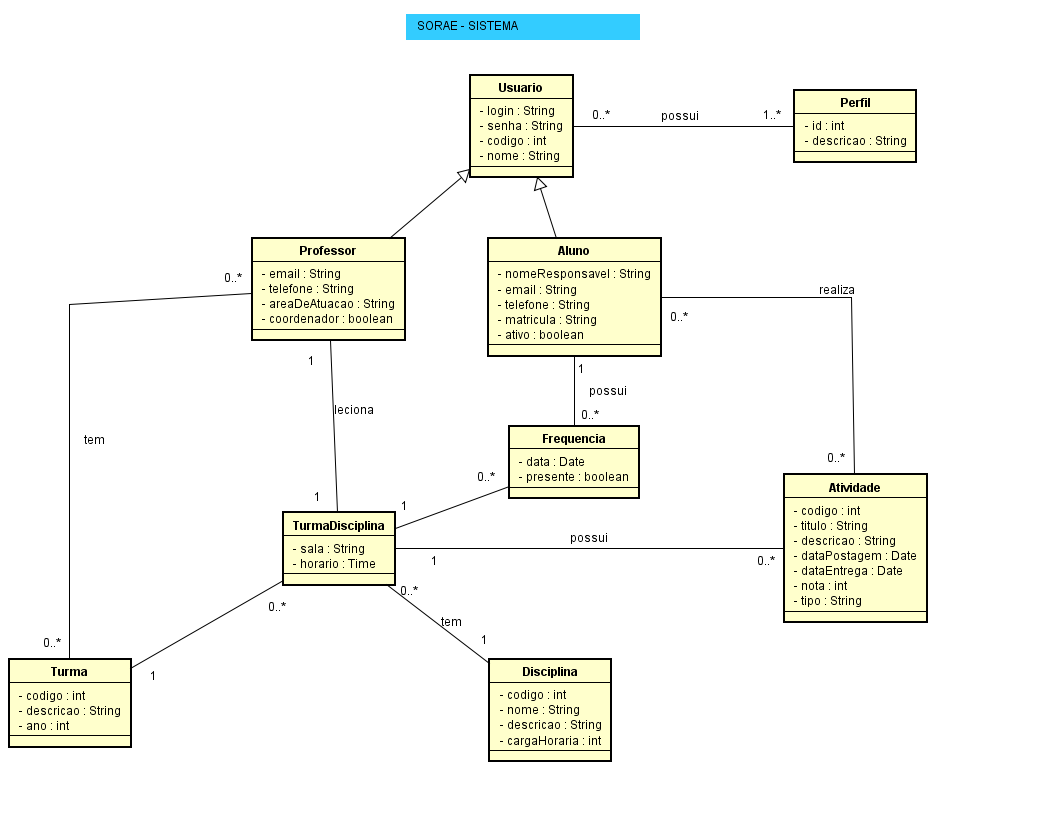
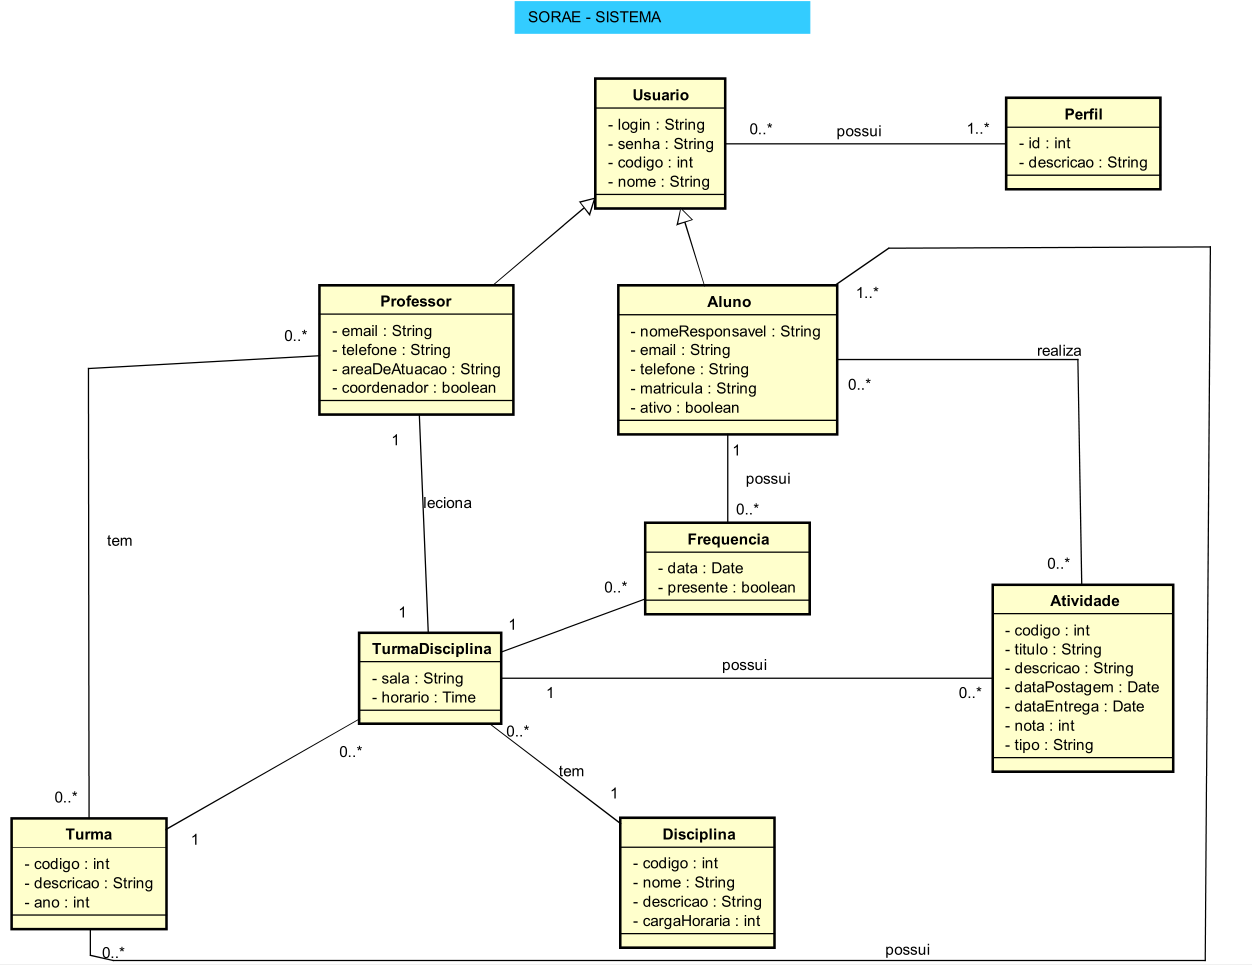
Listagem de disciplinas do aluno

diff --git a/front-sorae/app/routers/usuario.js b/front-sorae/app/routers/usuario.js
@@ -34,7 +34,48 @@ module.exports = async function (app) {
         next();
     });
     
+    app.get(process.env.SERVER_PREFIX + '/alunos/:idAluno/disciplinas', function(req, res) {
+        if (!req.session.token) {
+            res.redirect( process.env.SERVER_PREFIX + '/app/login');
+        } else if (req.session.usuario.nivel != 'ADMIN') {
+            req.flash('danger', 'Acesso restrito! Somente usuários de nível ADMINISTRADOR podem acessar esta página');
+            res.redirect( process.env.SERVER_PREFIX + '/');
+        } else {
 
+            teste = request({
+                url: process.env.API_HOST + req.params.idAluno ,
+                method: "GET",
+                json: true,
+                headers: {
+                    "content-type": "application/json",
+                    "Authorization": req.session.token
+                },
+            }, function (error, response, body) {
+               
+                if (validaRequisicao(response.statusCode, req, res)) {
+                    console.log(body)
+                    lista = [];
+                    for (var i = 0; i < Object.keys(body).length; i++) {
+                        const usuario = {
+                            // nome: body.data[i].id,
+                       
+                        };
+                        lista.push(usuario);
+                    }
+                    res.format({
+                        html: function () {
+                            res.render(rota + '/List', { itens: lista, page: rota, informacoes: req.session.usuario });
+
+                        }
+                    });
+                    return lista;
+                }
+
+
+            });
+
+        }
+    })
 
     // Rota para exibição da View Listar
     app.get( process.env.SERVER_PREFIX + '/app/' + rota + '/list', function (req, res) {

diff --git a/front-sorae/app/routers/login.js b/front-sorae/app/routers/login.js
@@ -45,6 +45,10 @@ module.exports = async function(app) {
                 "username": req.body.email,
             },
         }, function(error, response, body) {
+           if (response == null) {
+                res.redirect( process.env.SERVER_PREFIX + '/');
+                return false;
+           }
             if (response.statusCode != 201) {
                 req.flash("danger", body.accessToken);
                 res.redirect( process.env.SERVER_PREFIX + '/');

diff --git a/front-sorae/app.js b/front-sorae/app.js
@@ -30,7 +30,7 @@ app.get(process.env.SERVER_PREFIX, (req, res) => {
     } else {
         res.format({
             html: function () {
-                res.render('template/index',{informacoes: req.session.usuario});
+                res.render('template/index',{informacoes: req.session.usuario, teste: 'amarelo'});
             }
         });
     }

diff --git a/backend-sorae/src/main/java/pkg/SoraeApplication.java b/backend-sorae/src/main/java/pkg/SoraeApplication.java
@@ -1,5 +1,6 @@
 package pkg;
 
+import java.time.LocalDateTime;
 import java.util.ArrayList;
 import java.util.Arrays;
 import java.util.List;
@@ -13,9 +14,15 @@ import org.springframework.security.crypto.password.PasswordEncoder;
 import org.springframework.web.client.RestTemplate;
 
 import pkg.entities.Aluno;
+import pkg.entities.Disciplina;
 import pkg.entities.Professor;
+import pkg.entities.Turma;
+import pkg.entities.TurmaDisciplina;
 import pkg.entities.Usuario;
 import pkg.enums.NivelEnum;
+import pkg.repositories.DisciplinaRepository;
+import pkg.repositories.TurmaDisciplinaRepository;
+import pkg.repositories.TurmaRepository;
 import pkg.repositories.UsuarioRepository;
 
 @SpringBootApplication
@@ -31,13 +38,15 @@ public class SoraeApplication {
 	}
 
 	@Bean
-	CommandLineRunner init(UsuarioRepository usuarioRepository, PasswordEncoder passwordEncoder) {
+	CommandLineRunner init(UsuarioRepository usuarioRepository, PasswordEncoder passwordEncoder, DisciplinaRepository discRepository, 
+			TurmaRepository turmaRepository,  TurmaDisciplinaRepository turmaDisciplinaRepository) {
 		return args -> {
-			iniciarUsuario(usuarioRepository, passwordEncoder);
+			iniciarUsuario(usuarioRepository, passwordEncoder, discRepository, turmaRepository, turmaDisciplinaRepository);
 		};
 	}
 
-	public void iniciarUsuario(UsuarioRepository repository, PasswordEncoder passwordEncoder) {
+	public void iniciarUsuario(UsuarioRepository repository, PasswordEncoder passwordEncoder, DisciplinaRepository discRepository, 
+			TurmaRepository turmaRepository, TurmaDisciplinaRepository turmaDisciplinaRepository) {
 		List<Usuario> usuarios = repository.findAll();
 
 		if (usuarios.isEmpty()) {
@@ -51,6 +60,7 @@ public class SoraeApplication {
 			usuario.setEmail("email@email.com");
 			usuario.setNiveis(niveis);
 			usuario.setTipo("PE");
+	
 			
 			List<NivelEnum> niveisAluno = new ArrayList<>();
 			niveisAluno.add(NivelEnum.ALUNO);
@@ -67,10 +77,7 @@ public class SoraeApplication {
 			aluno.setNomeResponsavel("Raíssa da Costa");
 			aluno.setTelefone("9899882222");
 			aluno.setSerie("9 ANO");
-			
-			
-			
-			
+
 			
 			List<NivelEnum> niveisProfessor = new ArrayList<>();
 			niveisProfessor.add(NivelEnum.PROFESSOR);
@@ -85,7 +92,58 @@ public class SoraeApplication {
 			professor.setAreaDeAtuacao("EXATAS");
 			professor.setCoordenador(false);
 
-			repository.saveAll(Arrays.asList(usuario, professor, aluno));
+
+			repository.saveAll(Arrays.asList(usuario,aluno, professor ));
+			
+			
+			Disciplina d1 = new Disciplina();
+			d1.setCargaHoraria(10);
+			d1.setDescricao("A melhor disciplina de todas");
+			d1.setNome("Matemática");
+			
+			Disciplina d2 = new Disciplina();
+			d2.setCargaHoraria(8);
+			d2.setDescricao("A 2 melhor disciplina de todas");
+			d2.setNome("Portugês");
+			
+			discRepository.saveAll(Arrays.asList(d1, d2));
+			
+			Turma t1 = new Turma();
+			
+			t1.setAno(2020);
+			t1.setDescricao("9-ANO-C");
+			t1.setAlunos(Arrays.asList(aluno));
+			t1.setProfessores(Arrays.asList(professor));
+			
+			
+			turmaRepository.save(t1);
+			
+			
+			TurmaDisciplina td = new TurmaDisciplina();
+			td.setDisciplina(d1);
+			td.setHorario(LocalDateTime.of(2020, 01, 01, 10, 10));
+			td.setTurma(t1);
+			td.setSala("202-A");
+			
+			TurmaDisciplina td2 = new TurmaDisciplina();
+			td2.setDisciplina(d2);
+			td2.setHorario(LocalDateTime.of(2020, 01, 01, 9, 10));
+			td2.setTurma(t1);
+			td2.setSala("203-A");
+			
+			
+			turmaDisciplinaRepository.saveAll(Arrays.asList(td, td2));
+			
+			
+			
+			
+			
+			
+			
+			
+			
+			
+			
 		}
 	}
 }

diff --git a/backend-sorae/src/main/java/pkg/controllers/AlunoController.java b/backend-sorae/src/main/java/pkg/controllers/AlunoController.java
@@ -1,7 +1,10 @@
 package pkg.controllers;
 
+import java.util.List;
+
 import org.springframework.beans.factory.annotation.Autowired;
 import org.springframework.http.HttpStatus;
+import org.springframework.web.bind.annotation.CrossOrigin;
 import org.springframework.web.bind.annotation.DeleteMapping;
 import org.springframework.web.bind.annotation.GetMapping;
 import org.springframework.web.bind.annotation.PathVariable;
@@ -14,14 +17,26 @@ import org.springframework.web.bind.annotation.RestController;
 import org.springframework.web.server.ResponseStatusException;
 
 import pkg.entities.Aluno;
+import pkg.entities.projections.TurmaResumoDTO;
 import pkg.services.impl.AlunoService;
+import pkg.services.impl.TurmaService;
 
 @RestController
 @RequestMapping("/alunos")
+@CrossOrigin(origins = "*")
 public class AlunoController {
 
     @Autowired
     private AlunoService alunoService;
+    
+    @Autowired
+    private TurmaService turmaService;
+    
+    
+    @GetMapping("/{idAluno}/disciplinas")
+    public List<TurmaResumoDTO> buscarDisciplinasDoAluno(@PathVariable("idAluno") Long idAluno){
+    	return turmaService.buscarDisciplinasDoAluno(idAluno);
+    }
 
 
     @PostMapping("/cadastro") @ResponseStatus(HttpStatus.CREATED)

diff --git a/backend-sorae/src/main/java/pkg/repositories/TurmaRepository.java b/backend-sorae/src/main/java/pkg/repositories/TurmaRepository.java
@@ -1,0 +1,20 @@
+package pkg.repositories;
+
+import java.util.List;
+
+import org.springframework.data.jpa.repository.JpaRepository;
+import org.springframework.data.jpa.repository.Query;
+
+import pkg.entities.Turma;
+import pkg.entities.projections.TurmaResumoDTO;
+
+
+public interface TurmaRepository extends JpaRepository<Turma, Long> {
+	
+	@Query(value = "select disciplina.codigo, disciplina.nome, turma_disciplina.sala,turma_disciplina.horario  "
+			+ " from turma_disciplina "
+			+ " inner join disciplina on disciplina.codigo = turma_disciplina.fk_disciplina "
+			+ " inner join turma on turma.codigo = turma_disciplina.fk_turma "
+			+ " where  turma.codigo in (select turma_id from turma_aluno where aluno_id = ?1)", nativeQuery = true)
+	List<TurmaResumoDTO> buscarDisciplinasDoAluno(Long idAluno);
+}

diff --git a/backend-sorae/src/main/java/pkg/entities/Turma.java b/backend-sorae/src/main/java/pkg/entities/Turma.java
@@ -10,6 +10,8 @@ import javax.persistence.JoinColumn;
 import javax.persistence.JoinTable;
 import javax.persistence.ManyToMany;
 
+import com.fasterxml.jackson.annotation.JsonBackReference;
+
 import lombok.Data;
 
 @Entity
@@ -24,10 +26,16 @@ public class Turma {
 	
 	private Integer ano;
 	
-	@ManyToMany
+	@ManyToMany @JsonBackReference
 	@JoinTable(name = "turma_professor", 
 	   joinColumns = @JoinColumn(name = "turma_id"), 
 	   inverseJoinColumns = @JoinColumn(name = "professor_id"))
 	private List<Professor> professores;
+	
+	 @ManyToMany
+	 @JoinTable(name = "turma_aluno", 
+	   joinColumns = @JoinColumn(name = "turma_id"), 
+	   inverseJoinColumns = @JoinColumn(name = "aluno_id"))
+	 private List<Aluno> alunos;
 	
 }

diff --git a/backend-sorae/src/main/java/pkg/controllers/AtividadeController.java b/backend-sorae/src/main/java/pkg/controllers/AtividadeController.java
@@ -4,6 +4,7 @@ import org.springframework.beans.BeanUtils;
 import org.springframework.beans.factory.annotation.Autowired;
 import org.springframework.http.HttpStatus;
 import org.springframework.http.ResponseEntity;
+import org.springframework.web.bind.annotation.CrossOrigin;
 import org.springframework.web.bind.annotation.DeleteMapping;
 import org.springframework.web.bind.annotation.GetMapping;
 import org.springframework.web.bind.annotation.PathVariable;
@@ -20,6 +21,7 @@ import pkg.services.impl.AtividadeService;
 
 @RestController
 @RequestMapping(value = "/atividades")
+@CrossOrigin(origins = "*")
 public class AtividadeController {
 	
 	@Autowired

diff --git a/backend-sorae/src/main/java/pkg/entities/Professor.java b/backend-sorae/src/main/java/pkg/entities/Professor.java
@@ -4,7 +4,10 @@ import java.util.List;
 
 import javax.persistence.DiscriminatorValue;
 import javax.persistence.Entity;
+import javax.persistence.FetchType;
 import javax.persistence.ManyToMany;
+
+import com.fasterxml.jackson.annotation.JsonManagedReference;
 
 @Entity  @DiscriminatorValue("PR")
 public class Professor extends Usuario{
@@ -15,7 +18,8 @@ public class Professor extends Usuario{
 	private Boolean coordenador;
 	private String ocupacao;
 	
-	@ManyToMany(mappedBy = "professores")
+	@JsonManagedReference
+	@ManyToMany(mappedBy = "professores", fetch = FetchType.LAZY)
 	private List<Turma> turmas;
 
 	public String getTelefone() {

diff --git a/backend-sorae/src/main/java/pkg/controllers/ProfessorController.java b/backend-sorae/src/main/java/pkg/controllers/ProfessorController.java
@@ -2,6 +2,7 @@ package pkg.controllers;
 
 import org.springframework.beans.factory.annotation.Autowired;
 import org.springframework.http.HttpStatus;
+import org.springframework.web.bind.annotation.CrossOrigin;
 import org.springframework.web.bind.annotation.DeleteMapping;
 import org.springframework.web.bind.annotation.GetMapping;
 import org.springframework.web.bind.annotation.PathVariable;
@@ -18,7 +19,7 @@ import pkg.services.impl.ProfessorService;
 
 @RestController
 @RequestMapping("/professor")
-
+@CrossOrigin(origins = "*")
 public class ProfessorController {
 
     @Autowired

diff --git a/backend-sorae/src/main/java/pkg/entities/Aluno.java b/backend-sorae/src/main/java/pkg/entities/Aluno.java
@@ -5,6 +5,9 @@ import java.util.List;
 
 import javax.persistence.DiscriminatorValue;
 import javax.persistence.Entity;
+import javax.persistence.JoinColumn;
+import javax.persistence.JoinTable;
+import javax.persistence.ManyToMany;
 import javax.persistence.OneToMany;
 
 
@@ -27,6 +30,10 @@ public class Aluno extends Usuario{
     
     @OneToMany(mappedBy = "aluno")
     private List<Atividade> atividades;
+    
+    @ManyToMany(mappedBy = "alunos")
+    private List<Turma> turmas;
+    
 
 
 	public String getMatricula() {

diff --git a/backend-sorae/src/main/java/pkg/services/impl/TurmaService.java b/backend-sorae/src/main/java/pkg/services/impl/TurmaService.java
@@ -1,0 +1,22 @@
+package pkg.services.impl;
+
+import java.util.List;
+
+import org.springframework.beans.factory.annotation.Autowired;
+import org.springframework.stereotype.Service;
+
+import pkg.entities.projections.TurmaResumoDTO;
+import pkg.repositories.TurmaRepository;
+
+@Service
+public class TurmaService {
+	
+	
+	@Autowired
+	private TurmaRepository repository;
+	
+	public List<TurmaResumoDTO> buscarDisciplinasDoAluno(Long idAluno) {
+		return repository.buscarDisciplinasDoAluno(idAluno);
+	}
+
+}
